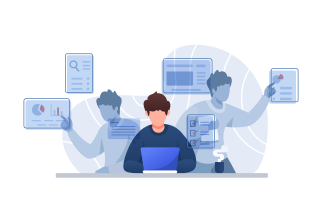
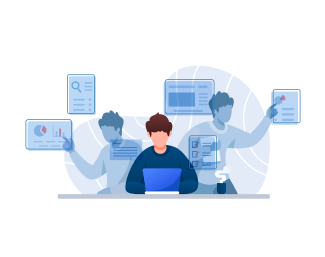
Сверстал страницы смены пароля, успешной регистрации..

Changed region(s): [[0.0621, 0.1953, 0.8385, 0.8372], [0.8075, 0.307, 0.9317, 0.5023], [0.7453, 0.6419, 0.7764, 0.6698]]

diff --git a/src/components/v-register.vue b/src/components/v-register.vue
@@ -1,23 +1,36 @@
 <template>
     <div class="register">
-        <form class="window-form">
-            <h2 class="window__title">Регистрация</h2>
-            <div class="window-form-field">
-                <input type="text" class="window-form-field__input" id="register-email" placeholder="Е-mail">
-                <label for="register-email"><img src="../assets/email_icon.svg" alt="*" class="icon"></label>
-            </div>
-            <div class="window-form-field">
-                <input type="password" class="window-form-field__input" id="register-password" placeholder="Пароль">
-                <label for="register-password"><img src="../assets/password_icon.svg" alt="*" class="icon"></label>
-            </div>
-            <div class="window-form-field">
-                <input type="password" class="window-form-field__input" id="register-repeat-password" placeholder="Подтвердить пароль">
-                <label for="register-repeat-password"><img src="../assets/password_icon.svg" alt="*" class="icon"></label>
-            </div>
-            <span class="window-small-link">Нажимая Зарегистрироваться я принимаю <a href="#">Правила использования сайта</a> и даю <a href=""> Согласие на обработку персональных данных.</a></span>
-            <button class="window-form__button">РЕГИСТРАЦИЯ</button>
-            <router-link to="/">Вход</router-link>
-        </form>
+        <div class="register-form" v-if="!isRegistered">
+            <form class="window-form">
+                <h2 class="window__title">Регистрация</h2>
+                <div class="window-form-field" v-if="isInvite">
+                    <span class="window-form-field__icon"><img src="../assets/email_icon.svg" alt="*" class="icon"></span>
+                    <span class="window-form-field__text">Е-mail приглашенного пользователя</span>
+                </div>
+                <div class="window-form-field" v-else>
+                    <input type="text" class="window-form-field__input" id="register-email" placeholder="Е-mail">
+                    <label for="register-email"><img src="../assets/email_icon.svg" alt="*" class="icon"></label>
+                </div>
+                <div class="window-form-field">
+                    <input type="password" class="window-form-field__input" id="register-password" placeholder="Пароль">
+                    <label for="register-password"><img src="../assets/password_icon.svg" alt="*" class="icon"></label>
+                </div>
+                <div class="window-form-field">
+                    <input type="password" class="window-form-field__input" id="register-repeat-password" placeholder="Подтвердить пароль">
+                    <label for="register-repeat-password"><img src="../assets/password_icon.svg" alt="*" class="icon"></label>
+                </div>
+                <span class="window-small-subtext">Нажимая Зарегистрироваться я принимаю <a href="#">Правила использования сайта</a> и даю <a href=""> Согласие на обработку персональных данных.</a></span>
+                <button class="window-form__button" @click="register">РЕГИСТРАЦИЯ</button>
+                <router-link to="/" class="window-link-button">Вход</router-link>
+            </form>
+        </div>
+        <div class="successful-registration" v-else>
+            <form class="window-form">
+                <h2 class="window__title">Вы успешно зарегистрировались в “LOGOOO” !</h2>
+                <p class="window__text">Для подтверждения регистрации проверьте свою электронную почту {e-mail} и перейдите по ссылке</p>
+                <span class="window-small-text">Если письмо не пришло, нажмите <a href="#">отправить ещё раз.</a></span>
+            </form>
+        </div>
     </div>
 </template>
 
@@ -29,14 +42,18 @@ export default {
     },
     data: () => {
     return {
+        isInvite: true,
+        isRegistered: false
     }
     },
     methods: {
-
+        register()
+        {
+            this.isRegistered = true;
+        }
     }
 }
 </script>
 
 <style>
-
 </style>

diff --git a/src/components/v-window.vue b/src/components/v-window.vue
@@ -3,7 +3,7 @@
         <div class="container window-container">
             <div class="window">
                 <div class="window__image">
-                    <img :src="getRandomImage()" alt="image">
+                    <img :src="curImage" alt="image">
                 </div>
                 <div class="window__content">
                     <router-view/>
@@ -21,23 +21,32 @@ export default {
   },
   data: () => {
     return {
-        images: ["window_img_1",
+        imageNames: ["window_img_1",
         "window_img_2",
         "window_img_3",
-        "window_img_4"]
+        "window_img_4"],
+        curImageName: "",
+        curImage: {}
     }
   },
   methods: {
-    getRandomImage() {
-        let images = require.context('../assets/', false, /\.png$/),
-            img = this.images[Math.floor(Math.random()*this.images.length)];
-        return images('./' + img + ".png")
+    updateImage() {
+        let allImages = require.context('../assets/', false, /\.png$/);
+        let freeImageNames = this.imageNames.filter((imageName) => imageName != this.curImageName);
+        this.curImageName = freeImageNames[Math.floor(Math.random() * freeImageNames.length)];
+        this.curImage = allImages('./' + this.curImageName + ".png")
     }
   },
   mounted()
   {
     
-  }
+  },
+  watch:
+  {
+    $route(){
+        this.updateImage()
+    }
+  } 
 }
 </script>
   
@@ -77,6 +86,15 @@ export default {
     {
         color: #598FF9;
         margin: 0;
+        margin-bottom: 30px;
+        text-align: center;
+        min-width: 205px;
+    }
+
+    .window__text
+    {
+        margin-bottom: 20px;
+        align-self: flex-start;
     }
 
     .window-form
@@ -90,12 +108,27 @@ export default {
     .window-form-field
     {
         display: flex;
-        margin-top: 30px;
+        margin-bottom: 30px;
     }
 
-    .window-form-field label
+    .window-form-field:last-of-type
+    {
+        margin-bottom: 0;
+    }
+
+    .window-form-field label, .window-form-field__icon
     {
         margin: 0 4px;
+    }
+
+    .window-form-field__text
+    {
+        font-family: Montserrat;
+        font-size: 9px;
+        margin: auto 0;
+        padding: 0 4px;
+        color: rgba(0, 0, 0, 0.62);
+        width: 190px;
     }
 
     .window-form-field__input
@@ -124,7 +157,6 @@ export default {
 
     .window-form__button
     {
-        font-size: 10px;
         min-width: 124px;
         height: 22px;
         color: white;
@@ -149,7 +181,12 @@ export default {
         border-color: #70B1DC;
     }
 
-    .window-small-link
+    .window-small-text
+    {
+        align-self: flex-start;
+    }
+
+    .window-small-subtext
     {
         max-width: 140px;
         align-self: flex-start;
@@ -157,17 +194,26 @@ export default {
         margin-top: 10px;
     }
 
-    .window-small-link a
+    .window-small-text a,
+    .window-small-subtext a
     {
         margin-left: 0;
     }
 
-    .window-small-link, .window-small-link a
+    .window-small-text, .window-small-text a,
+    .window-small-subtext, .window-small-subtext a
     {
         font-family: Montserrat;
         font-weight: 300;
         line-height: 9px;
         font-size: 7px;
+    }
+
+    .window-link-button
+    {
+        font-family: Ubuntu;
+        font-size: 10px;
+        font-weight: 400;
     }
     
 

diff --git a/src/components/v-reset-password.vue b/src/components/v-reset-password.vue
@@ -1,0 +1,46 @@
+<template>
+    <div class="reset-password">
+      <div class="reset-password-form" v-if="!isResetSuccessful">
+        <form class="window-form">
+            <h2 class="window__title">Смена пароля</h2>
+            <div class="window-form-field">
+                <input type="text" class="window-form-field__input" id="reset-password-email" placeholder="Е-mail">
+                <label for="reset-password-email"><img src="../assets/email_icon.svg" alt="*" class="icon"></label>
+            </div>
+            <button class="window-form__button" @click="resetPassword">СБРОС ПАРОЛЯ</button>
+            <router-link to="/register" class="window-link-button">Регистрация</router-link>
+        </form>
+      </div>
+      <div class="successful-reset-password" v-else>
+        <form class="window-form">
+          <h2 class="window__title">Вы запросили доступ к вашему аккаунту в LOGOOO</h2>
+          <p class="window__text">Для смены пароля перейдите по ссылке: <router-link to="/change-password">ссылка</router-link></p>
+          <span class="window-small-text">Если письмо не пришло, нажмите <a href="#">отправить ещё раз.</a></span>
+        </form>
+      </div>
+    </div>
+</template>
+
+<script>
+export default {
+  name: 'v-reset-password',
+  components: {
+    
+  },
+  data: () => {
+    return {
+      isResetSuccessful: false
+    }
+  },
+  methods: {
+    resetPassword()
+    {
+      this.isResetSuccessful = true;
+    }
+  }
+}
+</script>
+  
+<style>
+
+</style>

diff --git a/src/App.vue b/src/App.vue
@@ -24,7 +24,6 @@ export default {
   
 <style>
   @import url('https://fonts.googleapis.com/css2?family=Montserrat:wght@300;500;700&display=swap');
-  @import url('https://fonts.googleapis.com/css2?family=Sumana:wght@400;700&display=swap');
   @import url('https://fonts.googleapis.com/css2?family=Ubuntu:wght@300;400;500;700&display=swap');
 
   *
@@ -37,6 +36,7 @@ export default {
   {
     background-color: #E5E5E5;
     font-family: Montserrat;
+    color:black;
   }
 
   #app {
@@ -48,8 +48,8 @@ export default {
   {
     font-family: Montserrat;
     font-weight: 300;
-    font-size: 10px;
-    line-height: 21px;
+    font-size: 9px;
+    line-height: 11px;
     text-decoration-line: underline;
     color: #616161;
   }
@@ -63,8 +63,8 @@ export default {
   {
     font-family: Montserrat;
     font-weight: 300;
-    line-height: 17px;
-    font-size: 14px;
+    font-size: 9px;
+    line-height: 11px;
   }
 
   h1, h2, h3, h4, h5, h6
@@ -86,19 +86,13 @@ export default {
 
   button
   {
-    font-family: Sumana;
+    font-family: Ubuntu;
+    font-size: 10px;
   }
 
   button:focus, input:focus
   {
     outline: none;
-  }
-
-  router-link
-  {
-    font-family: Sumana;
-    font-size: 10px;
-    font-weight: 400;
   }
 
   .icon

diff --git a/src/components/v-change-password.vue b/src/components/v-change-password.vue
@@ -1,0 +1,36 @@
+<template>
+    <div class="change-password">
+        <form class="window-form">
+            <h2 class="window__title">Смена пароля</h2>
+            <div class="window-form-field">
+                <input type="password" class="window-form-field__input" id="change-password-password" placeholder="Пароль">
+                <label for="change-password-password"><img src="../assets/password_icon.svg" alt="*" class="icon"></label>
+            </div>
+            <div class="window-form-field">
+                <input type="password" class="window-form-field__input" id="change-password-repeat-password" placeholder="Подтвердить пароль">
+                <label for="change-password-repeat-password"><img src="../assets/password_icon.svg" alt="*" class="icon"></label>
+            </div>
+            <button class="window-form__button">ВХОД</button>
+        </form>
+    </div>
+</template>
+
+<script>
+export default {
+  name: 'v-change-password',
+  components: {
+    
+  },
+  data: () => {
+    return {
+    }
+  },
+  methods: {
+
+  }
+}
+</script>
+  
+<style>
+
+</style>

diff --git a/src/components/v-login.vue b/src/components/v-login.vue
@@ -10,9 +10,9 @@
                 <input type="password" class="window-form-field__input" id="login-password" placeholder="Пароль">
                 <label for="login-password"><img src="../assets/password_icon.svg" alt="*" class="icon"></label>
             </div>
-            <a href="#" class="window-small-link">Не помню пароль</a>
+            <router-link to="/reset-password" href="#" class="window-small-subtext">Не помню пароль</router-link>
             <button class="window-form__button">ВХОД</button>
-            <router-link to="/register">Регистрация</router-link>
+            <router-link to="/register" class="window-link-button">Регистрация</router-link>
         </form>
     </div>
 </template>

diff --git a/src/router/router.js b/src/router/router.js
@@ -12,8 +12,19 @@ export default new VueRouter({
     },
     {
       path: '/register',
-      name: 'v-register',
+      name: 'register',
       component: () => import('../components/v-register')
+    },
+    {
+      path: '/reset-password',
+      name: 'reset-password',
+      component: () => import('../components/v-reset-password')
+    },
+    {
+      path: '/change-password',
+      name: 'change-password',
+      component: () => import('../components/v-change-password')
     }
+    
   ]
 });
